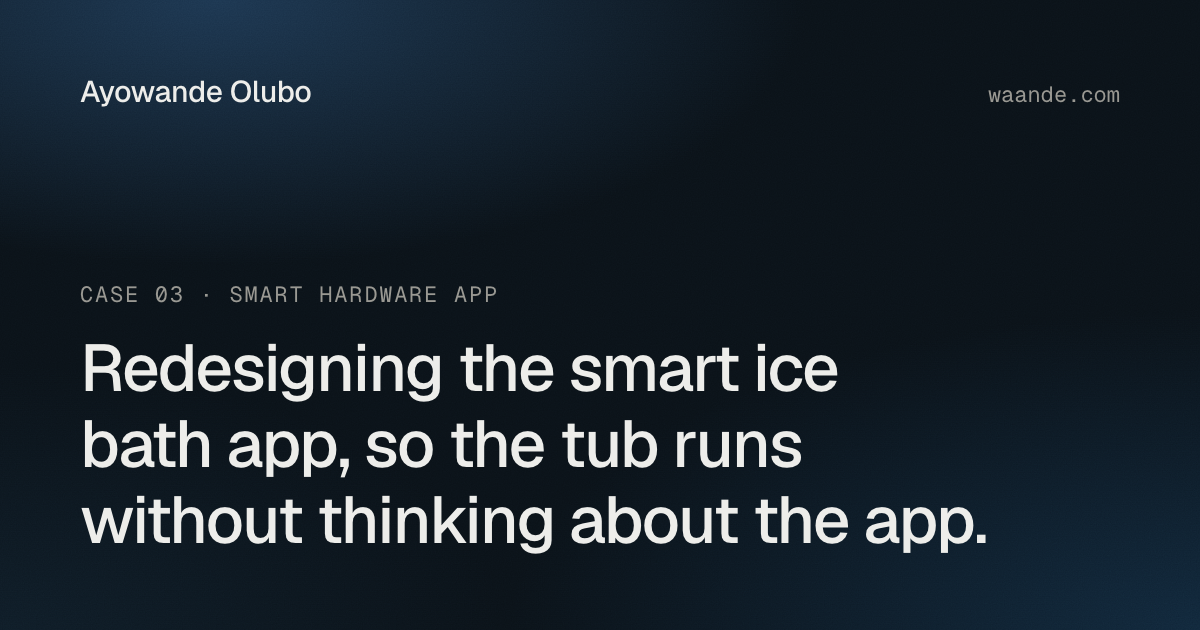
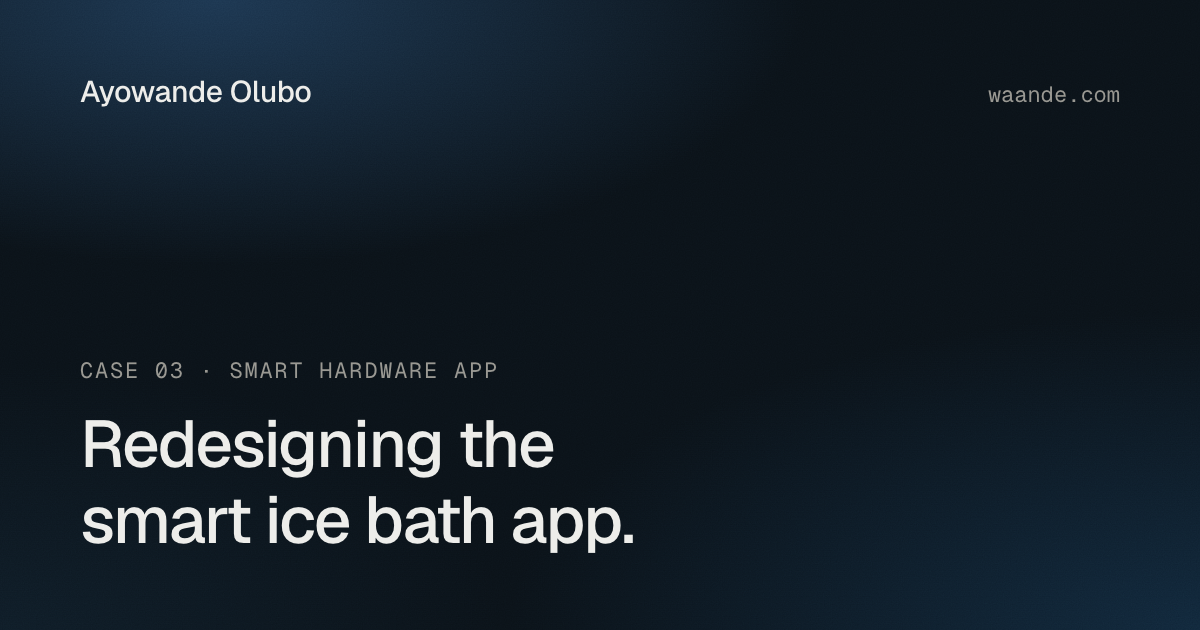
copy(arctic): shorten the Arctic Edge H1
At Ayo's request the H1 drops "so the tub runs without thinking about
the app" and now reads "Redesigning the smart ice bath app." The social
card template and the re-rendered card follow; the title tag, card alt
text and CreativeWork headline read from cases.ts.

diff --git a/src/components/case/cases.ts b/src/components/case/cases.ts
@@ -1,8 +1,8 @@
 /**
  * The four case studies: route, metadata and the hero/next-nav copy.
  * Every string is verbatim from waande-case-handoff/reference/<case>.html
- * (curly quotes included), except the Company label and the Scope values,
- * which Ayo updated on 2026-11-05. "human‑in‑the‑loop" uses U+2011
+ * (curly quotes included), except the Company label, the Scope values and
+ * the Arctic Edge H1, which Ayo updated on 2026-11-05. "human‑in‑the‑loop" uses U+2011
  * non-breaking hyphens so it never splits across lines (as the home H1 does). The bodies live in ./pages.
  */
 
@@ -88,7 +88,7 @@ export const CASES: Record<CaseSlug, CaseMeta> = {
     tile: "arctic",
     hero: {
       label: "Case 03 · Smart hardware app",
-      h1: "Redesigning the smart ice bath app, so the tub runs without thinking about the app.",
+      h1: "Redesigning the smart ice bath app.",
       lede: "Arctic Edge makes smart cooling tubs. Their companion app worked, but read as cluttered: competing surfaces, decorative colour, and a temperature you had to look at twice. The brief was a redesign people could operate at a glance, often with wet hands.",
       links: [{ label: "Visit Arctic Edge ↗", href: "https://www.arcticedge.me/" }],
       facts: [

diff --git a/scripts/og-case.html b/scripts/og-case.html
@@ -66,7 +66,7 @@
   },
   "arctic-edge": {
     "tile": "arctic",
-    "h1": "Redesigning the smart ice bath app, so the tub runs without thinking about the app.",
+    "h1": "Redesigning the smart ice bath app.",
     "label": "Case 03 · Smart hardware app"
   },
   "dexla-design-system": {
